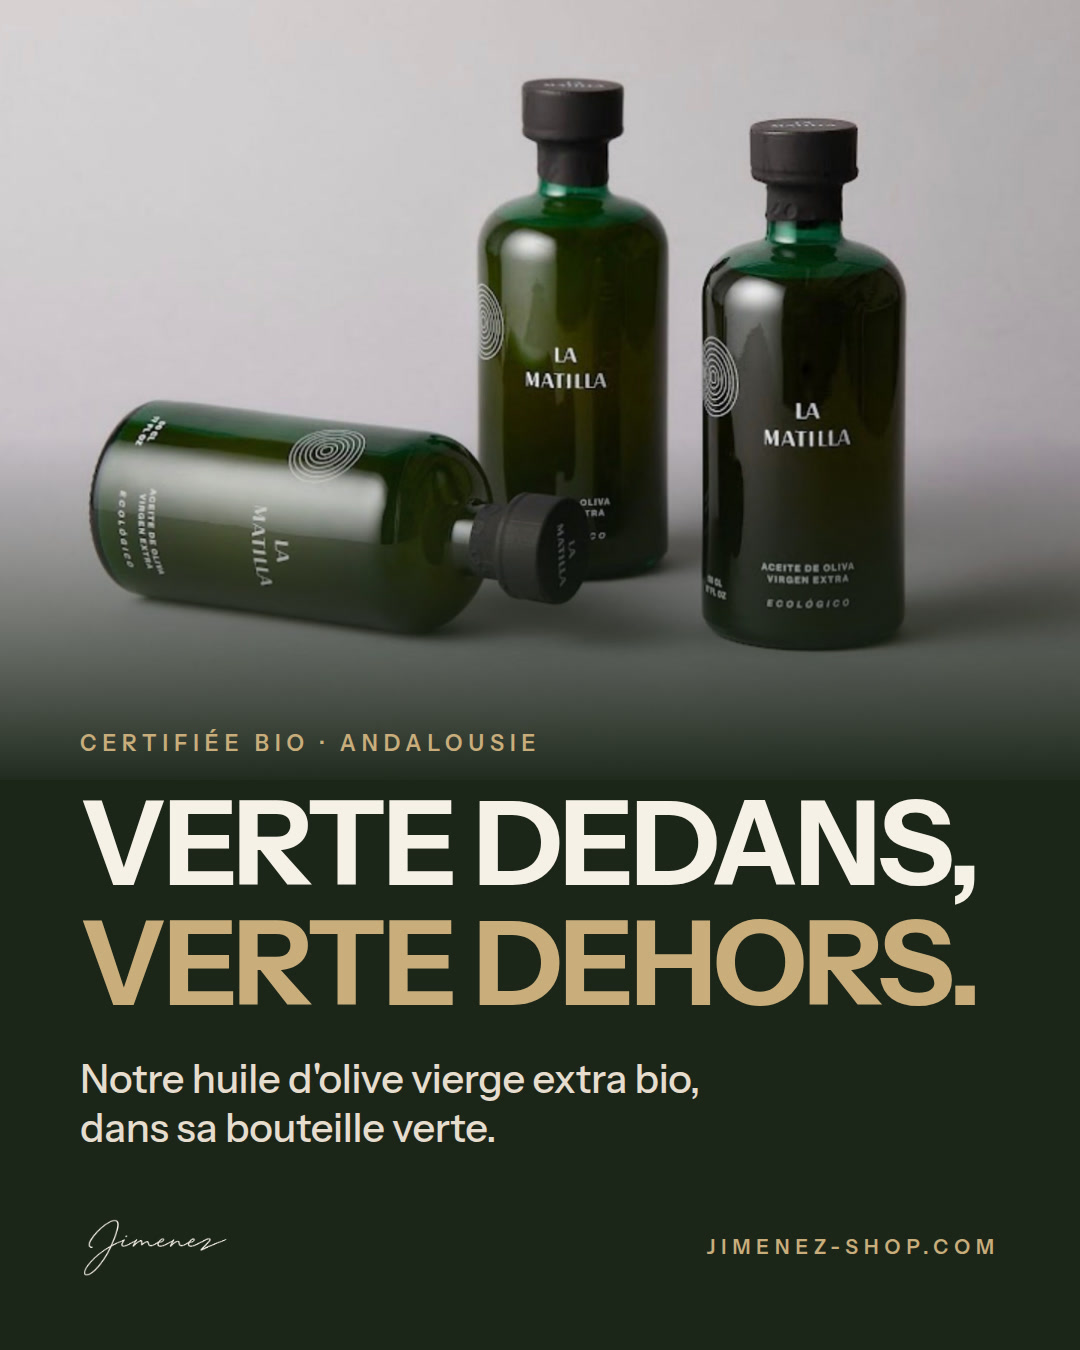
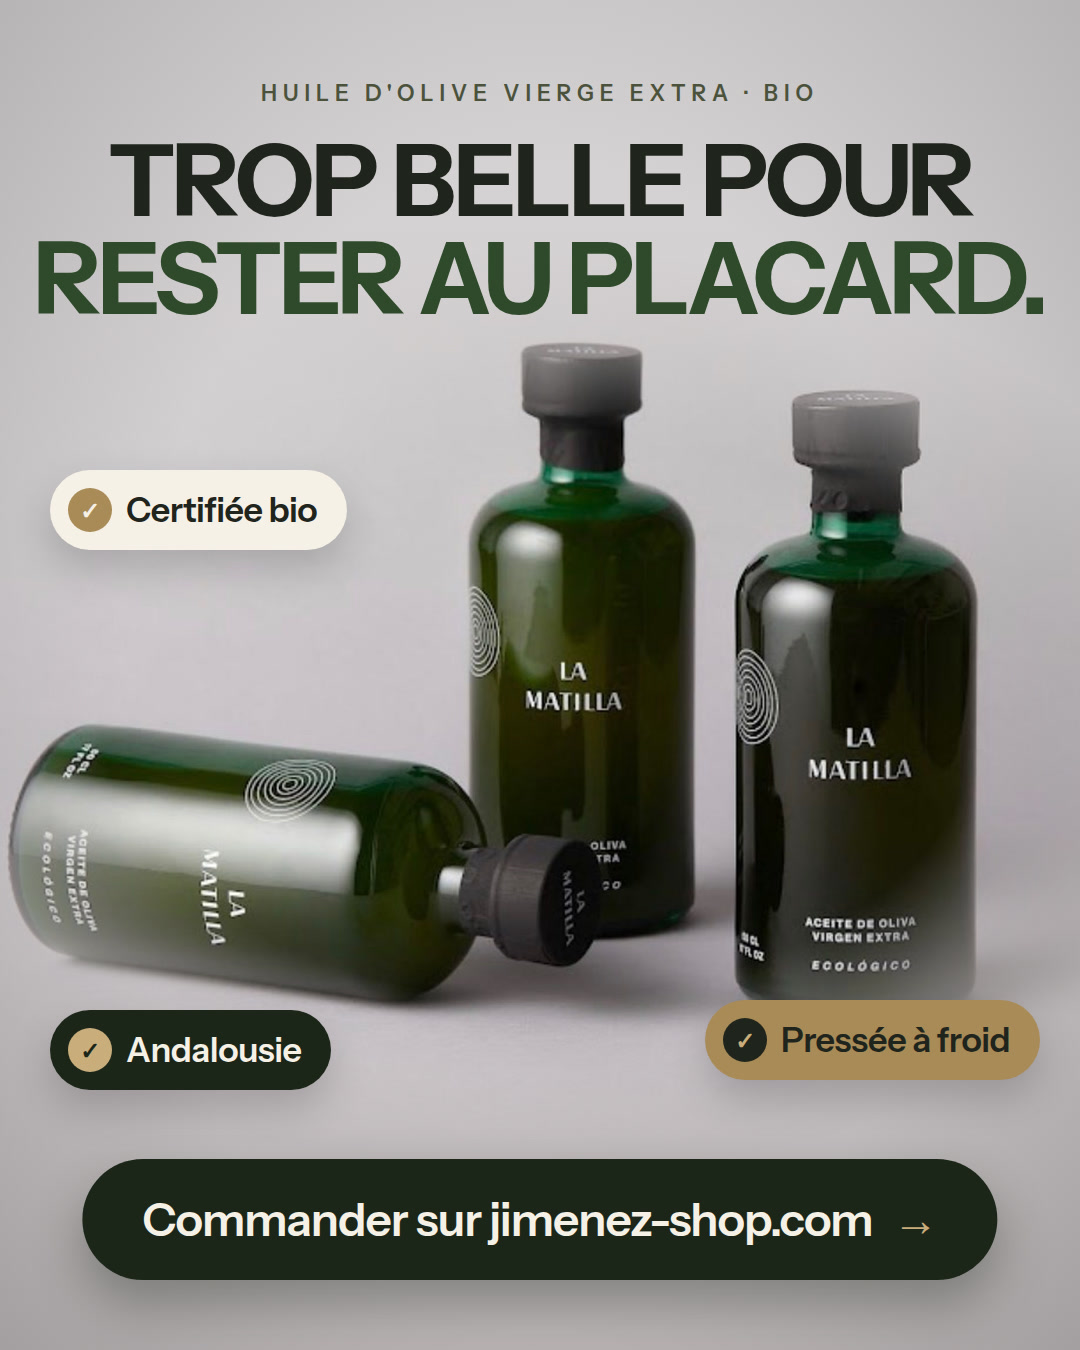
Huile bio : publication et story plus vendeuses (accroche, produit en grand, bouton d'achat)
Claude-Session: https://claude.ai/code/session_01UiVtPwDdPsmKbNcFJesaT8

diff --git a/instagram/video-source/bio2.html b/instagram/video-source/bio2.html
@@ -1,0 +1,43 @@
+<!doctype html><html lang="fr"><head><meta charset="utf-8"><link href="fonts/fonts.css" rel="stylesheet"><style>
+:root{--cream:#F6F1E7;--ink:#1F241C;--olive:#4B523C;--gold:#A88B57;--gold2:#C9AE7C;--teal:#48A99A;--deep:#1B2619}
+*{margin:0;padding:0;box-sizing:border-box}html,body{width:2160px;height:1920px;overflow:hidden;background:#000}
+body{font-family:"Instrument Sans",sans-serif;color:var(--ink)}
+.bg{position:absolute;inset:0;background:linear-gradient(#D6D3D4 0%,#D3CFD1 45%,#B9B3B4 100%)}
+.ph{position:absolute;object-fit:cover;-webkit-mask-image:radial-gradient(ellipse 50% 50% at 50% 50%,#000 62%,transparent 100%)}
+.H{font-weight:700;text-transform:uppercase;letter-spacing:-.03em;line-height:.98}
+.k{font-size:22px;letter-spacing:6px;text-transform:uppercase;font-weight:600}
+.pill{position:absolute;display:flex;align-items:center;gap:14px;padding:18px 30px 18px 18px;border-radius:999px;font-size:34px;font-weight:600;letter-spacing:-.5px;box-shadow:0 18px 40px rgba(0,0,0,.18);white-space:nowrap}
+.pill i{width:44px;height:44px;border-radius:50%;display:flex;align-items:center;justify-content:center;font-style:normal;font-size:24px;font-weight:700}
+.cta{position:absolute;left:50%;transform:translateX(-50%);display:flex;align-items:center;gap:20px;padding:32px 60px;border-radius:999px;background:var(--deep);color:var(--cream);font-size:46px;font-weight:600;letter-spacing:-1px;white-space:nowrap;box-shadow:0 24px 50px rgba(27,38,25,.35)}
+.cta span{color:var(--gold2)}
+.vig{position:absolute;inset:0;background:radial-gradient(ellipse at 50% 55%,rgba(0,0,0,0) 55%,rgba(40,40,40,.18) 100%)}
+</style></head><body>
+
+<!-- POST -->
+<div style="position:absolute;left:0;top:0;width:1080px;height:1350px;overflow:hidden">
+ <div class="bg"></div>
+ <img class="ph" src="hq/bio.jpg" style="left:-170px;top:250px;width:1420px;height:925px;object-position:50% 50%">
+ <div class="vig"></div>
+ <div style="position:absolute;left:0;right:0;top:80px;text-align:center">
+  <div class="k" style="color:var(--olive)">Huile d'olive vierge extra · Bio</div>
+  <div class="H" style="font-size:100px;margin-top:24px">Trop belle pour<br><span style="color:#2F4A2A">rester au placard.</span></div></div>
+ <div class="pill" style="left:50px;top:470px;background:var(--cream)"><i style="background:var(--gold);color:var(--cream)">✓</i>Certifiée bio</div>
+ <div class="pill" style="right:40px;top:1000px;background:var(--gold)"><i style="background:var(--ink);color:var(--gold2)">✓</i>Pressée à froid</div>
+ <div class="pill" style="left:50px;top:1010px;background:var(--deep);color:var(--cream)"><i style="background:var(--gold2);color:var(--deep)">✓</i>Andalousie</div>
+ <div class="cta" style="bottom:70px">Commander sur jimenez-shop.com <span>→</span></div>
+</div>
+
+<!-- STORY -->
+<div style="position:absolute;left:1080px;top:0;width:1080px;height:1920px;overflow:hidden">
+ <div class="bg"></div>
+ <img class="ph" src="hq/bio.jpg" style="left:-230px;top:640px;width:1540px;height:1003px;object-position:50% 50%">
+ <div class="vig"></div>
+ <div style="position:absolute;left:0;right:0;top:230px;text-align:center">
+  <div class="k" style="color:var(--olive)">Huile d'olive vierge extra · Bio</div>
+  <div class="H" style="font-size:118px;margin-top:26px">Trop belle<br>pour rester<br><span style="color:#2F4A2A">au placard.</span></div></div>
+ <div class="pill" style="left:40px;top:800px;background:var(--cream)"><i style="background:var(--gold);color:var(--cream)">✓</i>Certifiée bio</div>
+ <div class="pill" style="right:40px;top:1420px;background:var(--gold)"><i style="background:var(--ink);color:var(--gold2)">✓</i>Pressée à froid</div>
+ <div class="pill" style="left:40px;top:1420px;background:var(--deep);color:var(--cream)"><i style="background:var(--gold2);color:var(--deep)">✓</i>Andalousie</div>
+ <div class="cta" style="top:1590px">Je la veux <span>↓</span></div>
+</div>
+</body></html>
